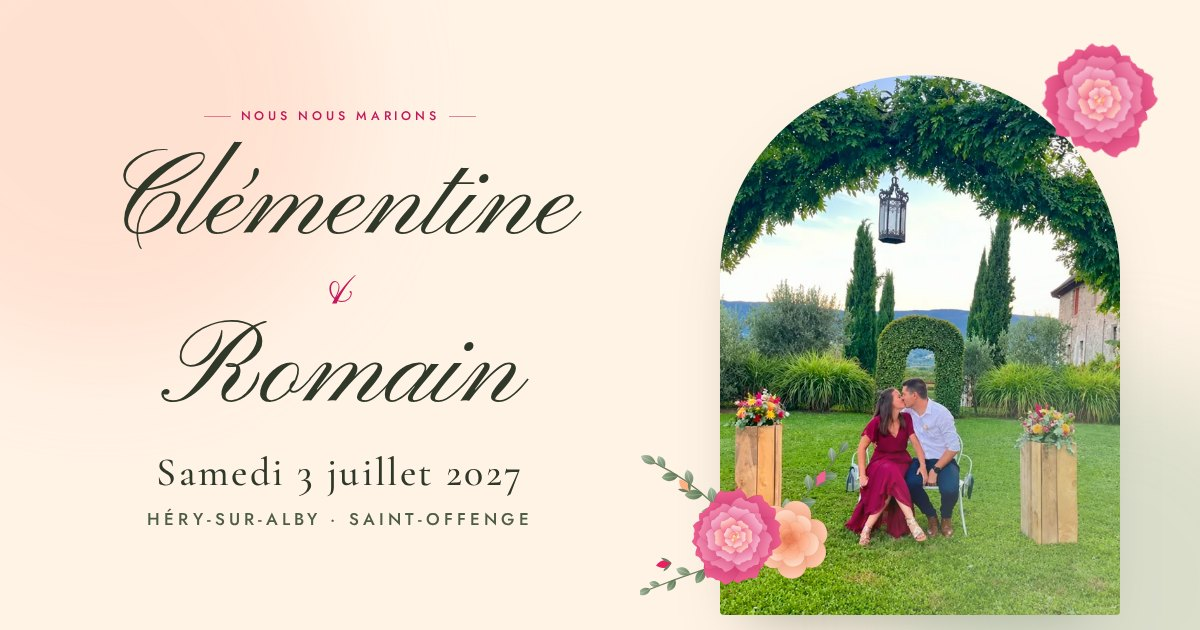
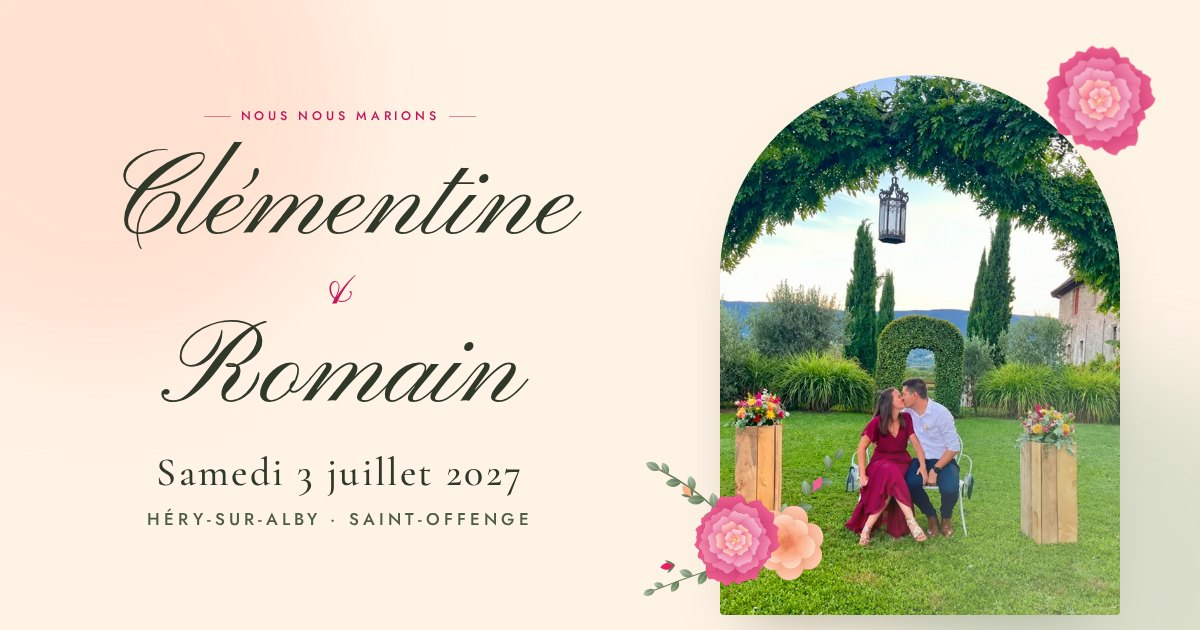
Illustrations florales : plus aucune feuille coupée
Les cadres (viewBox) de l’ornement, du feuillage, du bouquet et de la
pivoine sont élargis pour contenir entièrement les dessins ; dimensions
des images ajustées dans les pages, image de partage régénérée.

Claude-Session: https://claude.ai/code/session_01HAWTPvL4dY7Bnksh8r4g53

diff --git a/index.html b/index.html
@@ -119,7 +119,7 @@
                  sizes="(max-width: 900px) 86vw, 470px" width="1024" height="768" fetchpriority="high"
                  alt="Clémentine et Romain s’embrassant sous une arche de verdure, dans un jardin avec vue sur les montagnes">
           </div>
-          <img class="hero__flower" src="assets/img/bouquet.svg" alt="" width="400" height="340" data-depth="1.4">
+          <img class="hero__flower" src="assets/img/bouquet.svg" alt="" width="420" height="340" data-depth="1.4">
           <img class="hero__flower hero__flower--top" src="assets/img/fleur-pivoine.svg" alt="" width="200" height="200" data-depth="-1">
           <div class="hero__stamp" aria-hidden="true" data-depth="0.8">
             <svg class="hero__stamp-ring" viewBox="0 0 120 120"><defs><path id="stamp-circle" d="M60 60m-47 0a47 47 0 1 1 94 0a47 47 0 1 1-94 0"/></defs><text><textPath href="#stamp-circle">Clémentine &amp; Romain · Save the date · </textPath></text></svg>
@@ -152,12 +152,12 @@
 
     <!-- ============================== Bienvenue ============================== -->
     <section class="section welcome" id="bienvenue" aria-labelledby="bienvenue-title">
-      <img class="welcome__leaf welcome__leaf--l" src="assets/img/feuillage.svg" alt="" width="260" height="200" data-parallax="-12">
-      <img class="welcome__leaf welcome__leaf--r" src="assets/img/feuillage.svg" alt="" width="260" height="200" data-parallax="16">
+      <img class="welcome__leaf welcome__leaf--l" src="assets/img/feuillage.svg" alt="" width="280" height="210" data-parallax="-12">
+      <img class="welcome__leaf welcome__leaf--r" src="assets/img/feuillage.svg" alt="" width="280" height="210" data-parallax="16">
       <div class="container--narrow">
         <p class="overline" data-reveal>Bienvenue</p>
         <h2 class="title" id="bienvenue-title" data-split>Le 3 juillet 2027, <em>nous nous disons oui</em></h2>
-        <img class="ornament" src="assets/img/ornement.svg" alt="" width="260" height="48" data-reveal="draw">
+        <img class="ornament" src="assets/img/ornement.svg" alt="" width="284" height="48" data-reveal="draw">
         <p class="welcome__text" data-scrub-text>Nous avons l’immense joie de vous convier à notre mariage, au cœur de nos belles montagnes savoyardes. Vous trouverez ici tout ce qu’il faut savoir pour préparer votre venue&nbsp;: le programme de la journée, les lieux, les hébergements aux alentours et quelques idées pour prolonger le séjour.</p>
         <p class="welcome__more" data-reveal>Nous avons hâte de partager ce moment avec vous&nbsp;!</p>
         <p class="signature" data-reveal>Clémentine &amp; Romain</p>
@@ -188,7 +188,7 @@
         <header class="section-head">
           <p class="overline" data-reveal>Le grand jour</p>
           <h2 class="title" id="lieux-title" data-split>Deux lieux, <em>une journée</em></h2>
-          <img class="ornament" src="assets/img/ornement.svg" alt="" width="260" height="48" data-reveal="draw">
+          <img class="ornament" src="assets/img/ornement.svg" alt="" width="284" height="48" data-reveal="draw">
         </header>
 
         <div class="venues" data-reveal-group>
@@ -466,7 +466,7 @@
         <header class="section-head">
           <p class="overline" data-reveal>Préparer votre venue</p>
           <h2 class="title" id="preparer-title" data-split>Tout ce qu’il faut <em>savoir</em></h2>
-          <img class="ornament" src="assets/img/ornement.svg" alt="" width="260" height="48" data-reveal="draw">
+          <img class="ornament" src="assets/img/ornement.svg" alt="" width="284" height="48" data-reveal="draw">
         </header>
         <div class="teasers" data-reveal-group>
           <a class="teaser" href="hebergements.html" data-tilt>

diff --git a/environs.html b/environs.html
@@ -107,7 +107,7 @@
           <span class="unesco" data-reveal><svg class="icon" aria-hidden="true"><use href="assets/img/icons.svg#i-leaf"/></svg>Géoparc mondial UNESCO</span>
         </div>
         <div class="env-intro__art" data-reveal>
-          <img src="assets/img/bouquet.svg" alt="" width="400" height="340" data-parallax="8">
+          <img src="assets/img/bouquet.svg" alt="" width="420" height="340" data-parallax="8">
         </div>
       </div>
     </section>
@@ -118,7 +118,7 @@
         <header class="section-head">
           <p class="overline" data-reveal>Nos coups de cœur</p>
           <h2 class="title" id="idees-title" data-split>Balades, villages <em>&amp; lacs</em></h2>
-          <img class="ornament" src="assets/img/ornement.svg" alt="" width="260" height="48" data-reveal="draw">
+          <img class="ornament" src="assets/img/ornement.svg" alt="" width="284" height="48" data-reveal="draw">
         </header>
 
         <div class="filters" role="group" aria-label="Filtrer les idées de sorties" data-filters hidden>

diff --git a/temoins.html b/temoins.html
@@ -97,8 +97,8 @@
 
     <section class="section witnesses" aria-labelledby="temoins-liste">
       <h2 class="visually-hidden" id="temoins-liste">Nos quatre témoins</h2>
-      <img class="witnesses__leaf witnesses__leaf--l" src="assets/img/feuillage.svg" alt="" width="260" height="200" data-parallax="-14">
-      <img class="witnesses__leaf witnesses__leaf--r" src="assets/img/feuillage.svg" alt="" width="260" height="200" data-parallax="12">
+      <img class="witnesses__leaf witnesses__leaf--l" src="assets/img/feuillage.svg" alt="" width="280" height="210" data-parallax="-14">
+      <img class="witnesses__leaf witnesses__leaf--r" src="assets/img/feuillage.svg" alt="" width="280" height="210" data-parallax="12">
       <div class="container">
         <ul class="witness-row" data-witnesses>
         <li class="witness2 witness2--1">

diff --git a/hebergements.html b/hebergements.html
@@ -135,7 +135,7 @@
         <header class="section-head">
           <p class="overline" data-reveal>Au plus près de la fête</p>
           <h2 class="title" id="camping-title" data-split>Tentes &amp; <em>véhicules aménagés</em></h2>
-          <img class="ornament" src="assets/img/ornement.svg" alt="" width="260" height="48" data-reveal="draw">
+          <img class="ornament" src="assets/img/ornement.svg" alt="" width="284" height="48" data-reveal="draw">
         </header>
         <div class="camping" data-reveal-group>
           <article class="info-card" data-tilt>
